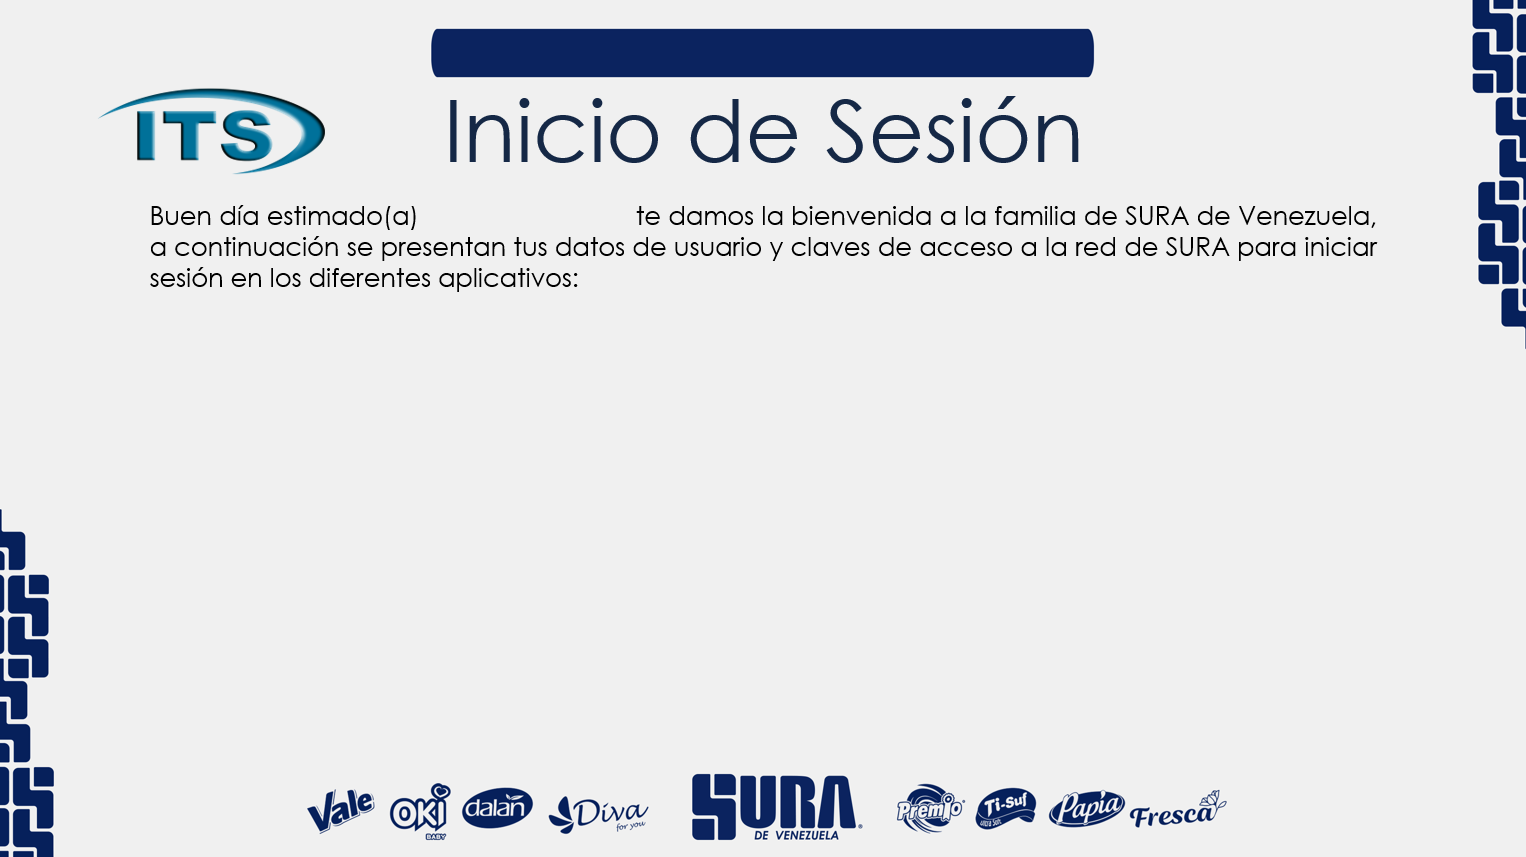
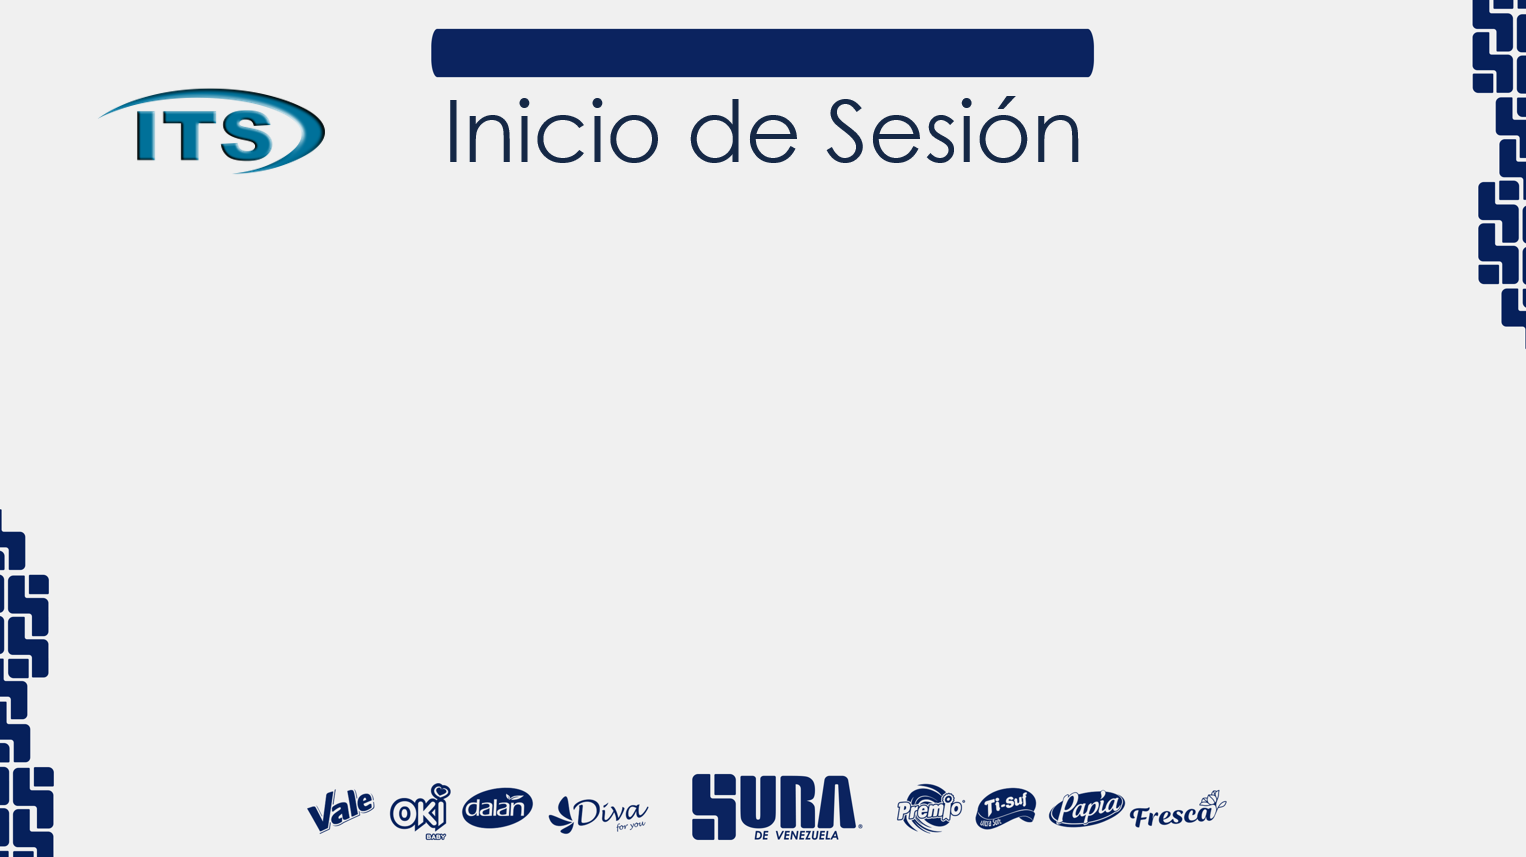
bienenida completa

Changed region(s): [[0.0924, 0.2427, 0.8932, 0.3337]]

diff --git a/backend/app.py b/backend/app.py
@@ -3294,13 +3294,26 @@ def generar_bienvenida():
         # Cargar las fuentes
         font = ImageFont.truetype('static/Montserrat-Regular.ttf', 25)
         title_font = ImageFont.truetype('static/Montserrat-Bold.ttf', 28)
-        name_font = ImageFont.truetype('static/Montserrat-Bold.ttf', 25)  # Para el nombre del empleado
+        bold_font = ImageFont.truetype('static/Montserrat-Bold.ttf', 25)  # Para el nombre en negrita
         
-        # Dibujar el nombre después de "estimado(a)"
-        nombre_empleado = data.get('nombre_empleado', '')
-        if nombre_empleado:
-            draw.text((450, 150), nombre_empleado, font=name_font, fill='black')  # Ajusta las coordenadas según necesites
+        # Obtener solo el primer nombre
+        nombre_completo = data.get('nombre_empleado', '').split()
+        primer_nombre = nombre_completo[-1] if nombre_completo else ''  # Tomamos el último elemento porque el formato es "APELLIDO NOMBRE"
         
+        # Dibujar el texto de bienvenida en partes para poder poner el nombre en negrita
+        texto_inicial = "Buen día estimado(a) "
+        draw.text((150, 190), texto_inicial, font=font, fill='black')
+        nombre_width = font.getlength(texto_inicial)  # Usar getlength en lugar de getsize
+        draw.text((150 + nombre_width, 190), primer_nombre, font=bold_font, fill='black')
+        nombre_bold_width = bold_font.getlength(primer_nombre)  # Usar getlength en lugar de getsize
+        draw.text((150 + nombre_width + nombre_bold_width, 190), ", te damos la bienvenida a la familia de SURA de Venezuela,", font=font, fill='black')
+        
+        # Dibujar el texto de instrucciones
+        instrucciones_text = "a continuación se presentan tus datos de usuario y claves de acceso a la red de SURA para iniciar"
+        draw.text((150, 220), instrucciones_text, font=font, fill='black')
+        aplicativos_text = "sesión en los diferentes aplicativos:"
+        draw.text((150, 250), aplicativos_text, font=font, fill='black')
+
         # Coordenadas base para las dos columnas
         y_start = 300
         y_spacing = 30
